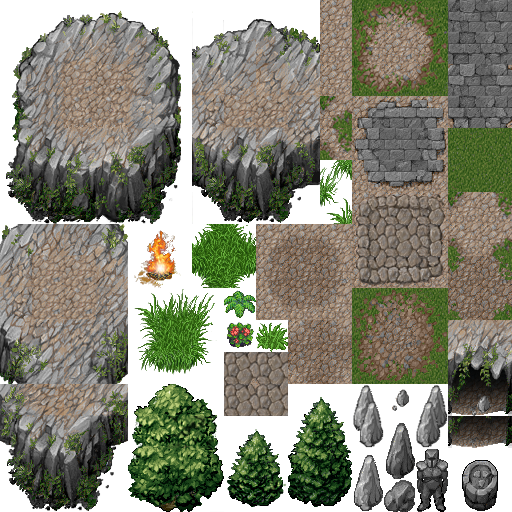
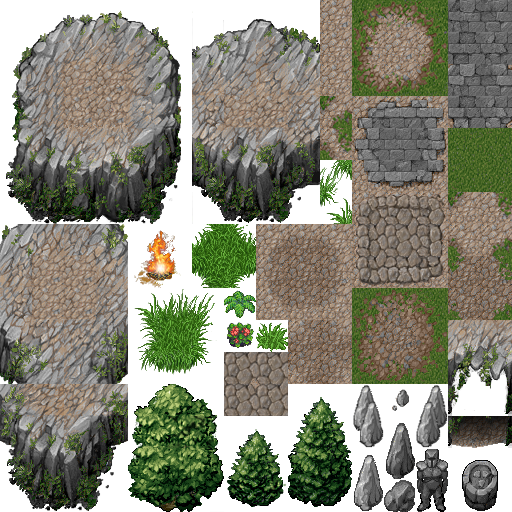
add doorway structure for testing

Changed region(s): [[0.875, 0.7188, 1.0, 0.8125]]

diff --git a/client/outpost.js b/client/outpost.js
@@ -1099,6 +1099,13 @@ for (var i = 0; i < 3; ++i) {
     }
 }
 
+chunks[0].setFront(10, 5, 1, 12 * 16 + 14);
+chunks[0].setFront(11, 5, 1, 12 * 16 + 15);
+chunks[0].setFront(10, 5, 2, 11 * 16 + 14);
+chunks[0].setFront(11, 5, 2, 11 * 16 + 15);
+chunks[0].setBottom(10, 4, 2, 10 * 16 + 14);
+chunks[0].setBottom(11, 4, 2, 10 * 16 + 15);
+
 var planner = new RenderPlanner();
 
 function frame(ctx, now) {
